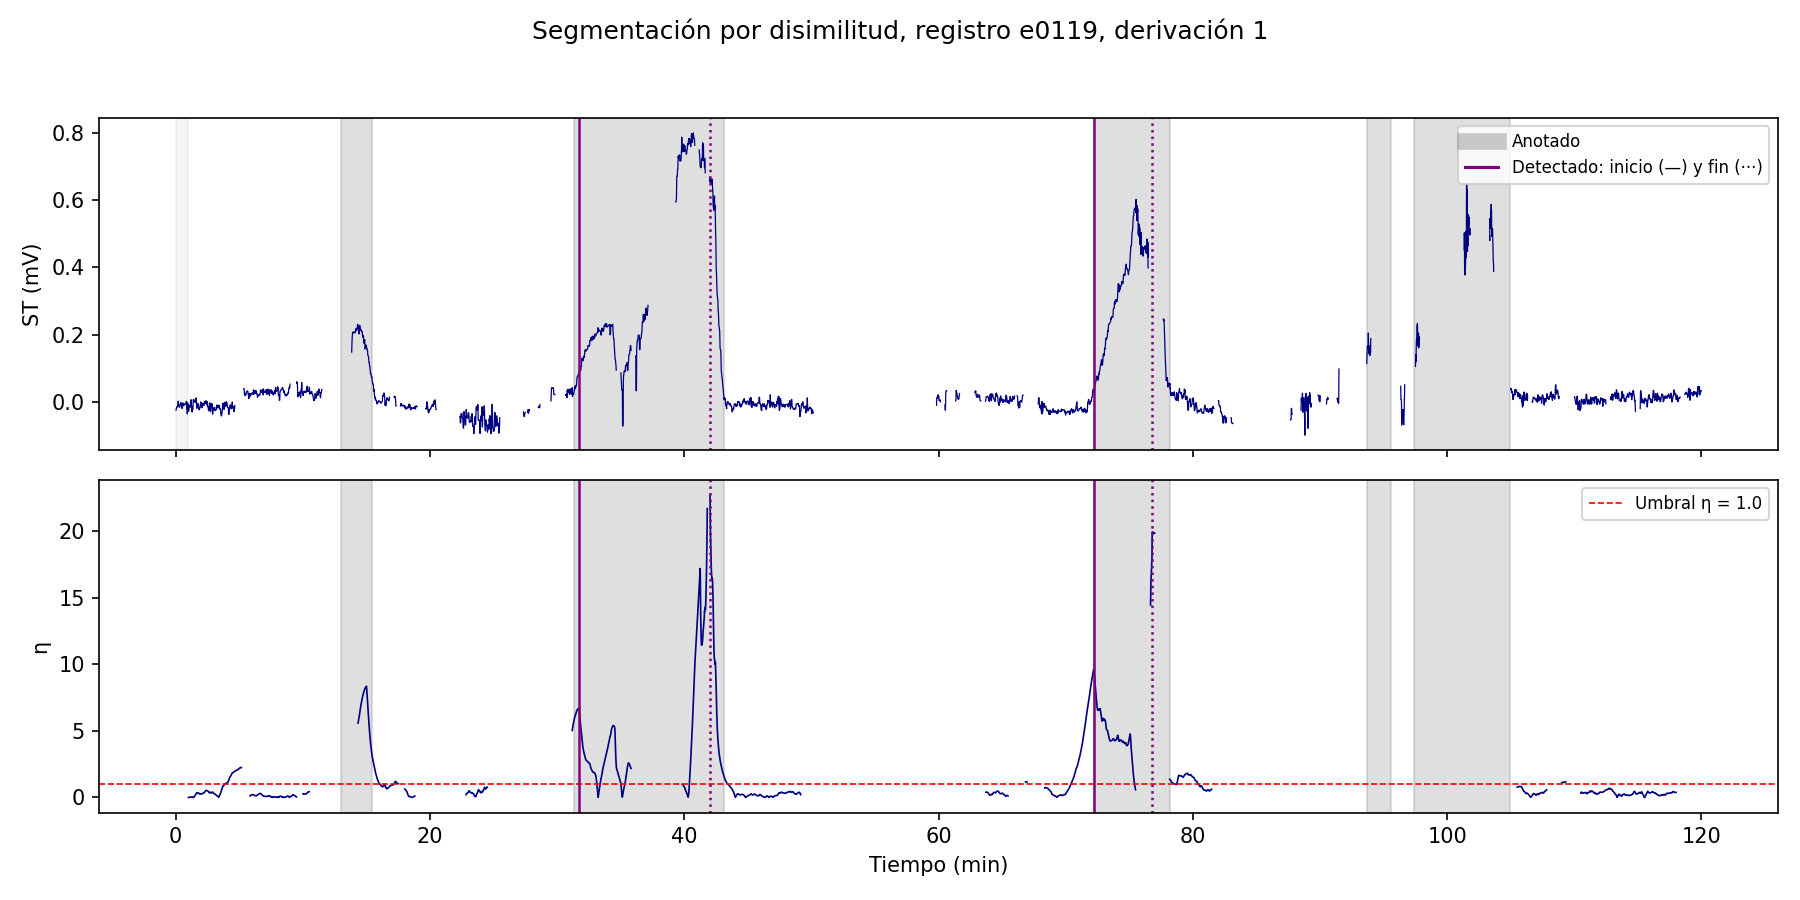
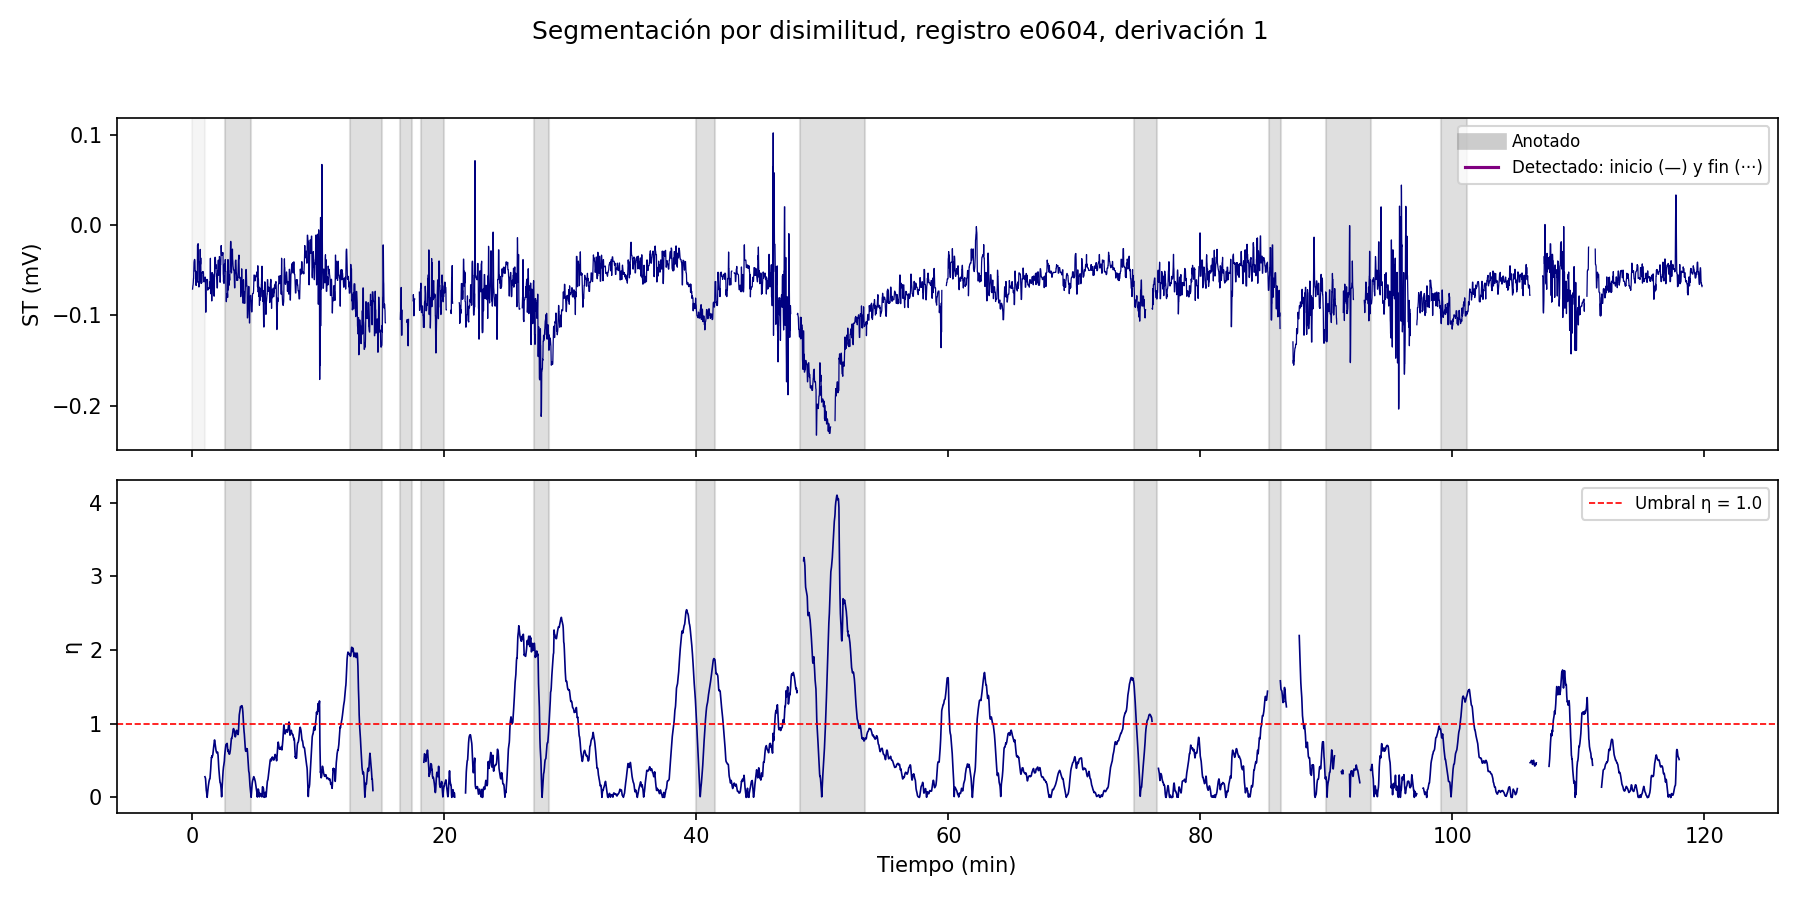
agrego imagen de deteccion de QRS

diff --git a/src/qrs.py b/src/qrs.py
@@ -50,6 +50,10 @@ from episodios import leer_config
 from exploracion import SIMBOLOS_LATIDO, mascara_descarte
 from rutas import CONFIG, DATOS, RESULTS
 
+import matplotlib
+matplotlib.use('Agg')
+import matplotlib.pyplot as plt
+
 
 def leer_parametros():
     """Devuelve el diccionario de parámetros de config/qrs.json."""
@@ -265,6 +269,68 @@ def procesar_registro(base, registro, ventanas, p):
     return pd.concat(latidos, ignore_index=True), validacion
 
 
+# Tramos de 8 s que muestran el detector en tres situaciones típicas:
+# (registro, índice de derivación, inicio en s, título).
+CASOS_FIGURA = [
+    ('e0103', 1, 100, 'a) Señal limpia'),
+    ('e0305', 0, 300, 'b) Ondas T grandes'),
+    ('e0147', 0, 1830, 'c) Deriva de línea de base fuerte'),
+]
+
+
+def figura_deteccion(base, latidos, p, salida, casos=CASOS_FIGURA, duracion_s=8):
+    """Superpone los QRS detectados y los latidos anotados sobre el ECG en
+    tramos cortos, para ver a simple vista si la detección es correcta.
+    Marca con una cruz roja los falsos positivos y los falsos negativos."""
+    fig, ejes = plt.subplots(len(casos), 1, figsize=(11, 2.4 * len(casos)))
+    ejes = np.atleast_1d(ejes)
+    for eje, (registro, k, t0, titulo) in zip(ejes, casos):
+        x_mv, fs, nombres = leer_senal_mv(base, registro)
+        anot = wfdb.rdann(str(DATOS / leer_config(base)['carpeta'] / registro),
+                          leer_config(base)['extension_anotaciones'])
+        ref = np.array([s for s, sim in zip(anot.sample, anot.symbol) if sim in SIMBOLOS_LATIDO])
+        det = np.sort(latidos.loc[(latidos['registro'] == registro)
+                                  & (latidos['derivacion'] == k), 'idx_qrs'].to_numpy())
+        n_tol = int(round(p['tolerancia_validacion_s'] * fs))
+        i0, i1 = int(t0 * fs), int((t0 + duracion_s) * fs)
+        t = np.arange(i0, i1) / fs
+        y = x_mv[i0:i1, k]
+        r = ref[(ref >= i0) & (ref < i1)]
+        d = det[(det >= i0) & (det < i1)]
+        fp = [q for q in d if np.min(np.abs(ref - q)) > n_tol]
+        fn = [q for q in r if len(det) == 0 or np.min(np.abs(det - q)) > n_tol]
+        alto, rango = y.max(), np.ptp(y)
+
+        eje.plot(t, y, color='#555555', linewidth=0.9)
+        eje.plot(r / fs, np.full(len(r), alto + 0.12 * rango), 'v', color='#eb6834',
+                 markersize=8, label='Latido anotado (cardiólogos)')
+        eje.plot(d / fs, x_mv[d, k], 'o', mfc='none', mec='#2a78d6', mew=1.8,
+                 markersize=10, label='QRS detectado (Pan-Tompkins)')
+        for q in d:
+            eje.axvline(q / fs, color='#2a78d6', linewidth=0.6, alpha=0.35)
+        if fp:
+            eje.plot(np.array(fp) / fs, x_mv[fp, k], 'x', color='#c0392b',
+                     markersize=11, mew=2, label='Falso positivo')
+        if fn:
+            eje.plot(np.array(fn) / fs, np.full(len(fn), alto + 0.12 * rango), 'x',
+                     color='#c0392b', markersize=11, mew=2, label='Falso negativo')
+        eje.set_ylim(y.min() - 0.1 * rango, alto + 0.25 * rango)
+        eje.set_title(f'{titulo} - {registro}, derivación {nombres[k]}: {len(d)} detectados, '
+                      f'{len(r)} anotados, {len(fp)} FP, {len(fn)} FN', fontsize=10, loc='left')
+        eje.set_ylabel('mV')
+        eje.spines[['top', 'right']].set_visible(False)
+        eje.grid(color='#e6e6e6')
+        eje.set_axisbelow(True)
+    ejes[-1].set_xlabel('Tiempo (s)')
+    manijas, etiquetas = ejes[0].get_legend_handles_labels()
+    fig.legend(manijas, etiquetas, loc='upper center', ncol=2, frameon=False,
+               fontsize=9, bbox_to_anchor=(0.5, 1.0))
+    fig.tight_layout(rect=(0, 0, 1, 0.95))
+    salida.parent.mkdir(parents=True, exist_ok=True)
+    fig.savefig(salida, dpi=150)
+    plt.close(fig)
+
+
 if __name__ == '__main__':
     base = sys.argv[1] if len(sys.argv) > 1 else 'edb'
     cfg = leer_config(base)
@@ -321,3 +387,7 @@ if __name__ == '__main__':
     print("\nqrs_edb.csv.gz: latidos detectados (un latido por fila)")
     print("\nvalidacion_qrs_edb.csv: Recall y Precisión por registro y derivación")
     print(">>>>>>>>>>>>>>>>>>>>>>>>>>>><<<<<<<<<<<<<<<<<<<<<<<<<<<<<<")
+    if base == 'edb':
+        salida_fig = RESULTS / 'figuras' / f'qrs_deteccion_{base}.png'
+        figura_deteccion(base, latidos, p, salida_fig)
+        print(f"\n{salida_fig.name}: QRS detectados superpuestos al ECG")

diff --git a/src/segmentacion.py b/src/segmentacion.py
@@ -413,7 +413,7 @@ if __name__ == "__main__":
     print("Total de episodios detectados: " + str(len(det)))
 
     (RESULTS / "figuras").mkdir(exist_ok=True)
-    mas_episodios =  ("e0119", 1)         #Para elegir el de más anotaciones: ref_total.groupby(["registro", "derivacion"]).size().idxmax()
+    mas_episodios =  ("e0604", 1)         #Para elegir el de más anotaciones: ref_total.groupby(["registro", "derivacion"]).size().idxmax()
     figura_segmentacion(st_df, datos, ref_total, det, mas_episodios[0], mas_episodios[1], p, umbral,
                         RESULTS / "figuras" / f"segmentacion_ejemplo_{base}.png")
     print(f"\nFIGURA segmentacion_ejemplo_{base}.png: muestra la evolución del coeficiente de "
